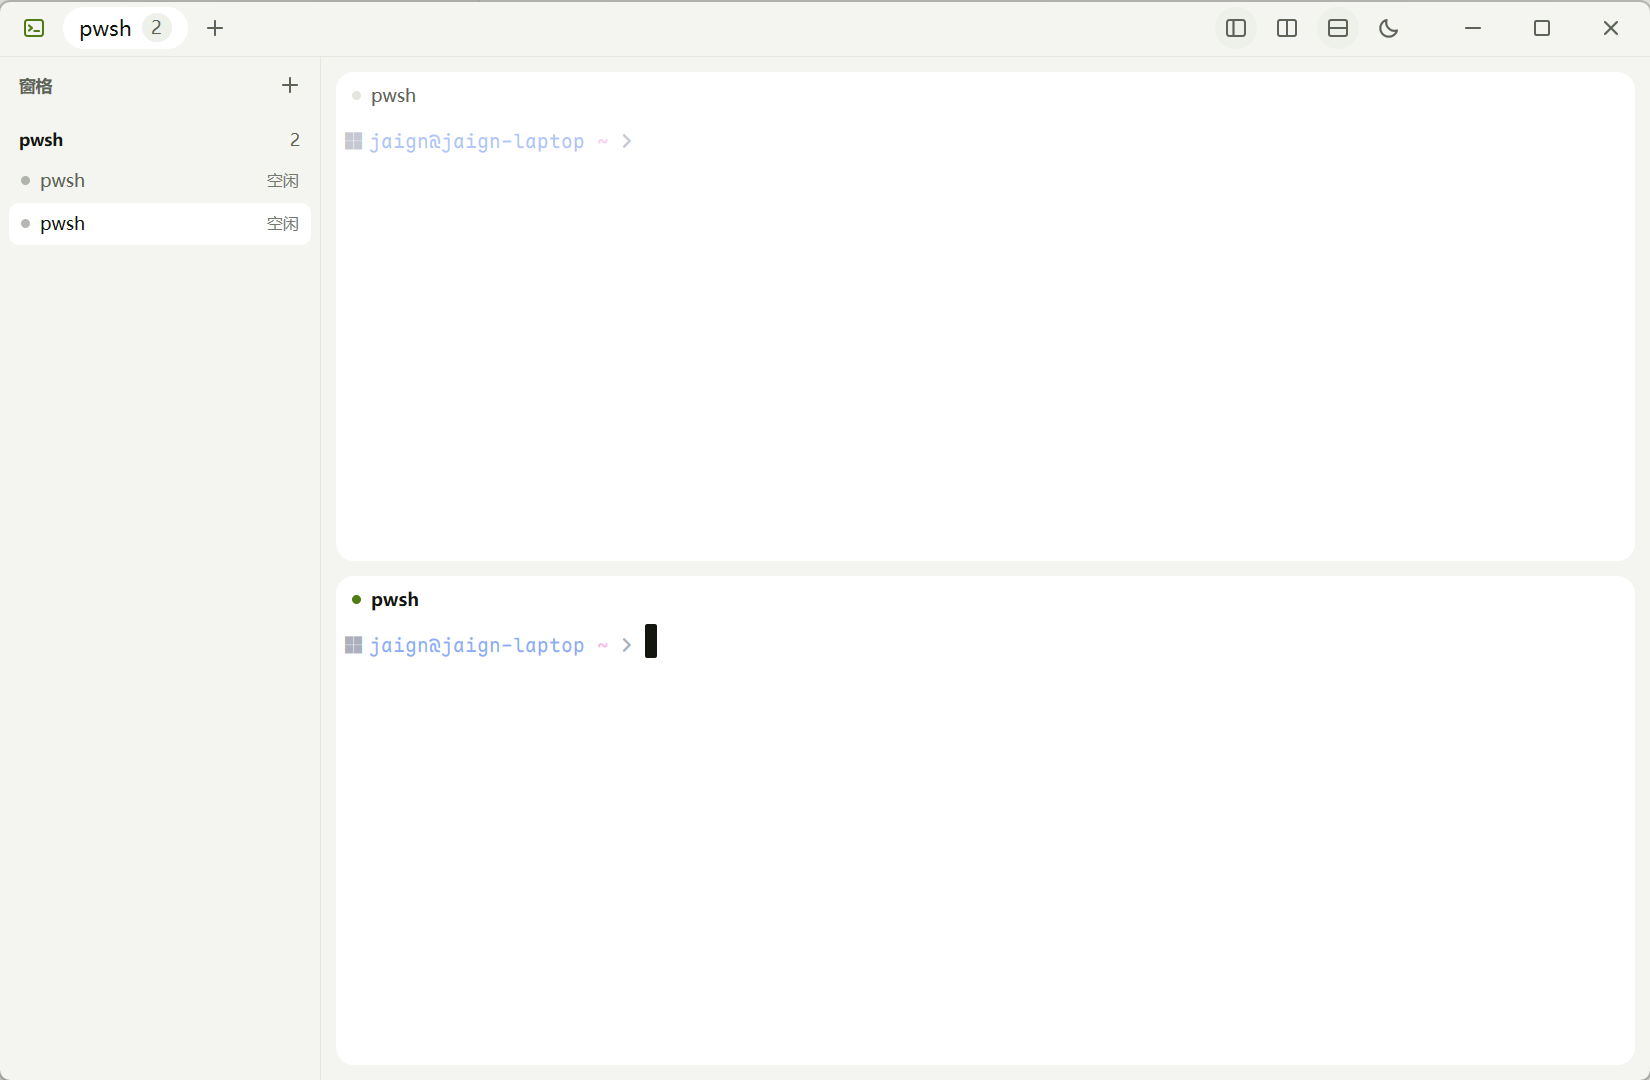
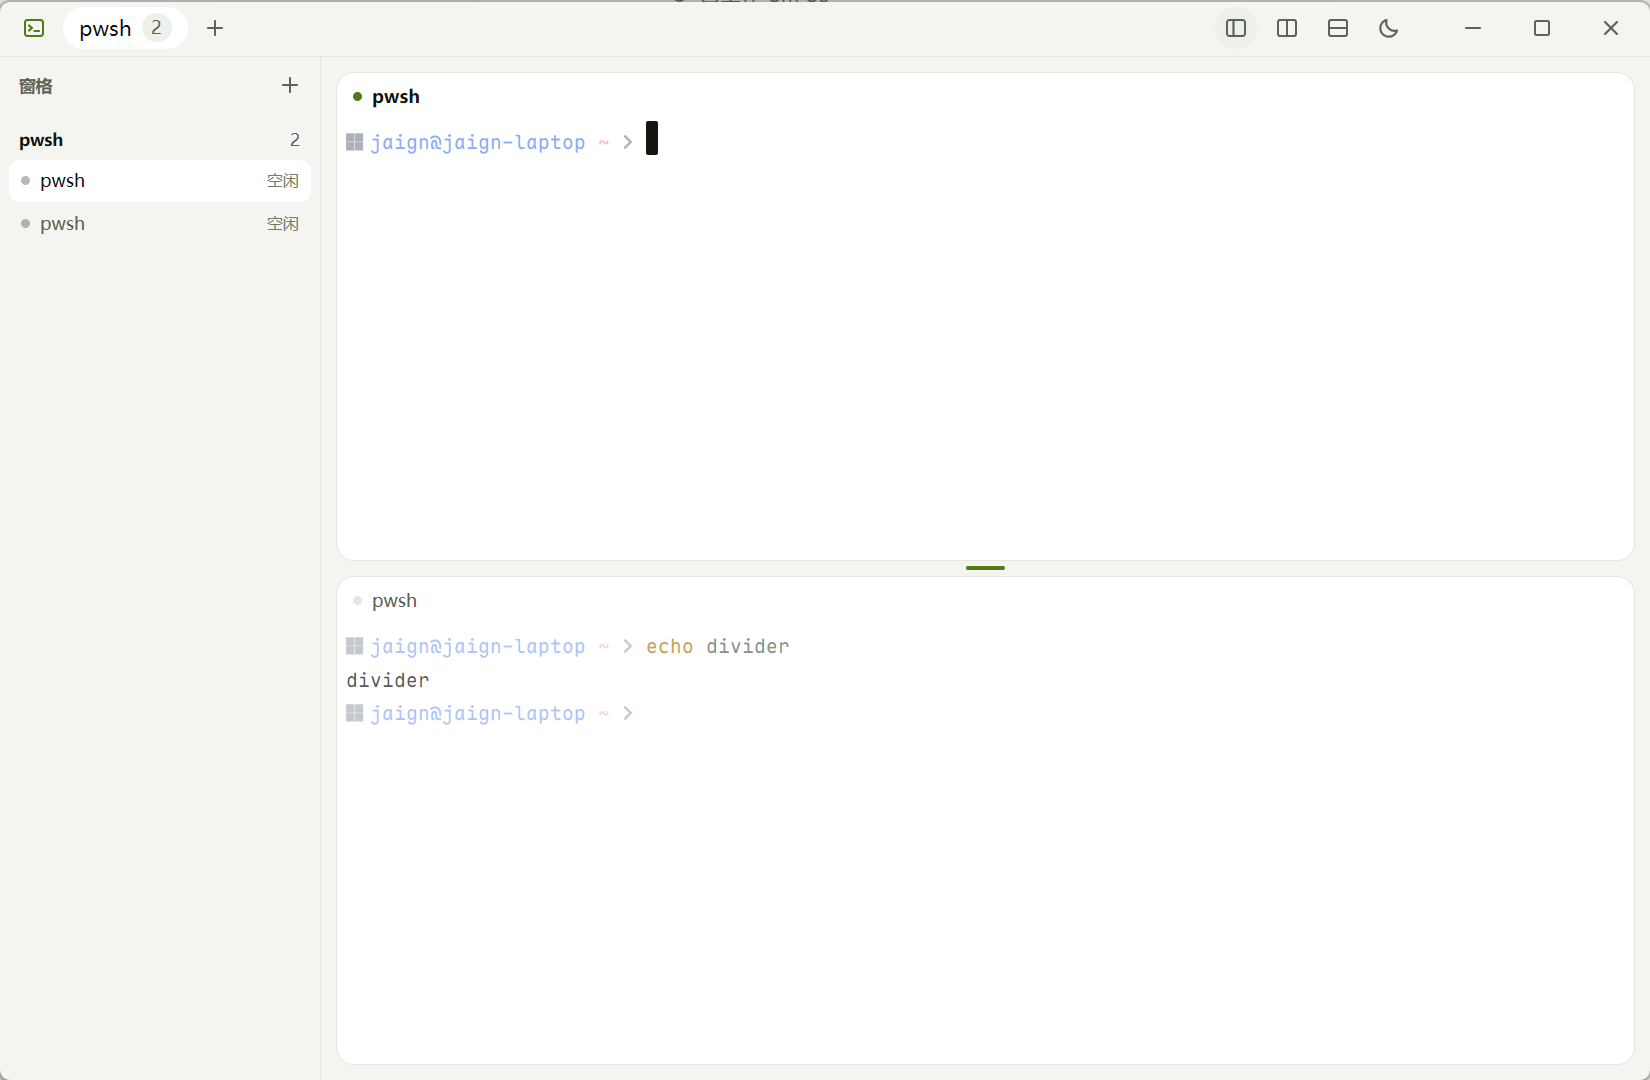
Give the cards an edge, and let the gap be the divider
The pane gap was invisible, and the divider was the reason: it painted a band in
the same tone as the surface behind it, so the two cards merged into one field
with a seam nobody could find. A white card on a near-white surface needs an
edge of its own, so panes now carry the same hairline border kero gives its
cards. Two borders with space between them say "two things" without anything
being drawn in the gap.

Which left the divider doing nothing but catching the pointer. It now does only
that, plus a short accent grip on hover — the same signal the sidebar's edge
gives. The earlier attempt drew a rule down the middle of the gap, which put
card border, seam and card border within a dozen pixels: three rules read as a
fence, not as a division.

Assisted-by: Cindy (https://cindy.app)

diff --git a/crates/app/src/main.rs b/crates/app/src/main.rs
@@ -74,6 +74,10 @@ const PANE_HEADER_HEIGHT: f32 = 32.0;
 /// Corner radius of a pane card.
 const PANE_RADIUS: f32 = 12.0;
 
+/// Space between two panes. The gap is the divider: nothing is drawn in it
+/// at rest, and the pointer is the only thing that shows it can be moved.
+const PANE_GAP: f32 = 10.0;
+
 /// Width of the pane list.
 const SIDEBAR_WIDTH: f32 = 214.0;
 
@@ -1356,6 +1360,11 @@ impl Workspace {
                     .overflow_hidden()
                     .group("pane")
                     .rounded(px(PANE_RADIUS))
+                    // The card needs an edge of its own: the gap between panes is
+                    // only a slightly different tone, and without a border the two
+                    // surfaces merge into one field with a seam nobody can find.
+                    .border_1()
+                    .border_color(theme.border)
                     .bg(style.background)
                     .on_mouse_down(
                         MouseButton::Left,
@@ -2035,14 +2044,17 @@ impl Workspace {
 
 /// The draggable gutter between two panes of a split.
 ///
-/// The panes are separated by a strip of chrome rather than a hairline. A
-/// terminal paints its own background, so a one-pixel rule between two panes of
-/// the same colour is nearly invisible; a strip of the title bar's tone reads as
-/// a deliberate division and makes the two panes feel like separate surfaces.
+/// The gap already reads as a seam: each pane is a card with its own hairline
+/// border, so two borders with space between them say "two things". What the gap
+/// cannot say by itself is that it can be moved, so that is all this adds — a
+/// grip that appears under the pointer, the same one the sidebar's edge uses.
 ///
-/// It is wide enough to grab, which a hairline is not, and it brightens on hover
-/// to say it can be moved. The two panes on either side identify which split is
-/// being resized, which is what keeps a nested split pointing at its own gutter.
+/// Drawing a third line down the middle was the earlier mistake: card border,
+/// seam, card border is three rules in a dozen pixels, which reads as a fence
+/// rather than a division.
+///
+/// The two panes on either side identify which split is being resized, which is
+/// what keeps a nested split pointing at its own gutter.
 fn divider_element(
     axis: Axis,
     first: &Layout,
@@ -2053,27 +2065,40 @@ fn divider_element(
     let left = first.leaves().last().copied();
     let right = second.leaves().first().copied();
 
-    const GUTTER: f32 = 10.0;
+    /// How long the grip is along the seam.
+    const GRIP: f32 = 26.0;
 
-    let mut grip = div().flex_shrink_0().bg(theme.title_bar);
+    let grip = div()
+        .when(axis == Axis::Horizontal, |this| this.w(px(3.0)).h(px(GRIP)))
+        .when(axis == Axis::Vertical, |this| this.h(px(3.0)).w(px(GRIP)))
+        .rounded(px(999.0))
+        .bg(theme.ring);
 
-    grip = match axis {
-        Axis::Horizontal => grip.w(px(GUTTER)).h_full().cursor_col_resize(),
-        Axis::Vertical => grip.h(px(GUTTER)).w_full().cursor_row_resize(),
+    let mut band = div()
+        .group("divider")
+        .flex_shrink_0()
+        .flex()
+        .items_center()
+        .justify_center()
+        .child(
+            grip.opacity(0.0)
+                .group_hover("divider", |this| this.opacity(1.0)),
+        );
+
+    band = match axis {
+        Axis::Horizontal => band.w(px(PANE_GAP)).h_full().cursor_col_resize(),
+        Axis::Vertical => band.h(px(PANE_GAP)).w_full().cursor_row_resize(),
     };
 
-    // The gutter is the same tone as the surface behind it, so it is invisible
-    // until the pointer finds it and the accent says it can be moved.
-    grip.hover(move |this| this.bg(theme.ring.opacity(0.3)))
-        .on_mouse_down(
-            MouseButton::Left,
-            cx.listener(move |workspace, event: &MouseDownEvent, _, cx| {
-                if let (Some(left), Some(right)) = (left, right) {
-                    workspace.begin_resize(left, right, axis, event.position, cx);
-                }
-            }),
-        )
-        .into_any_element()
+    band.on_mouse_down(
+        MouseButton::Left,
+        cx.listener(move |workspace, event: &MouseDownEvent, _, cx| {
+            if let (Some(left), Some(right)) = (left, right) {
+                workspace.begin_resize(left, right, axis, event.position, cx);
+            }
+        }),
+    )
+    .into_any_element()
 }
 
 /// The grab strip on the sidebar's trailing edge.
